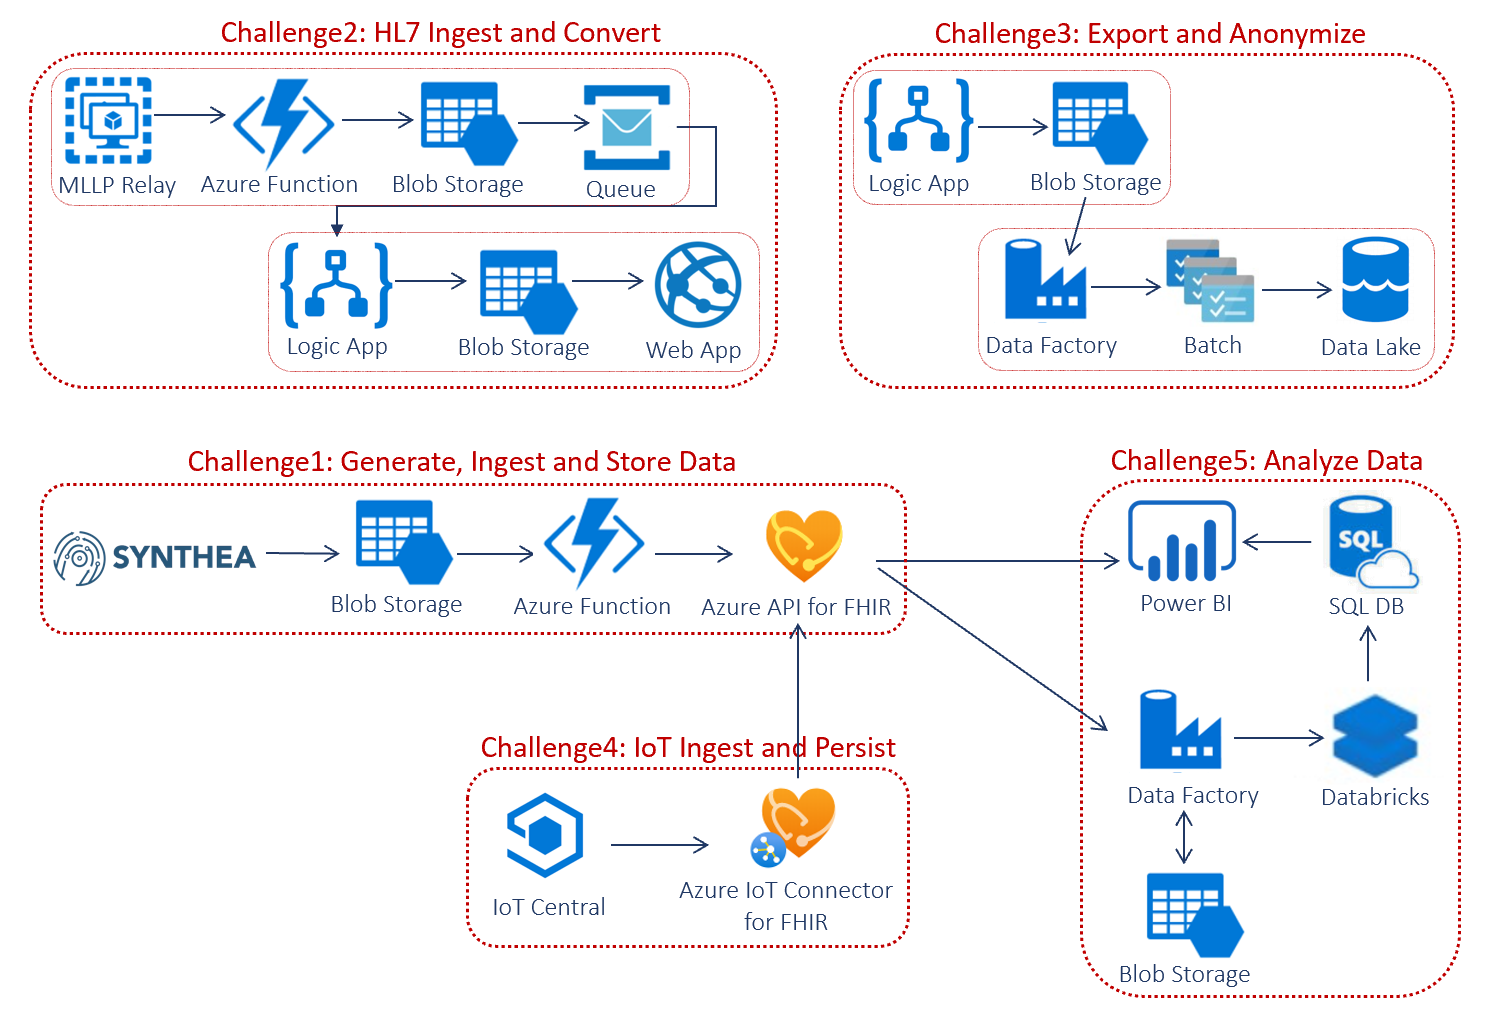
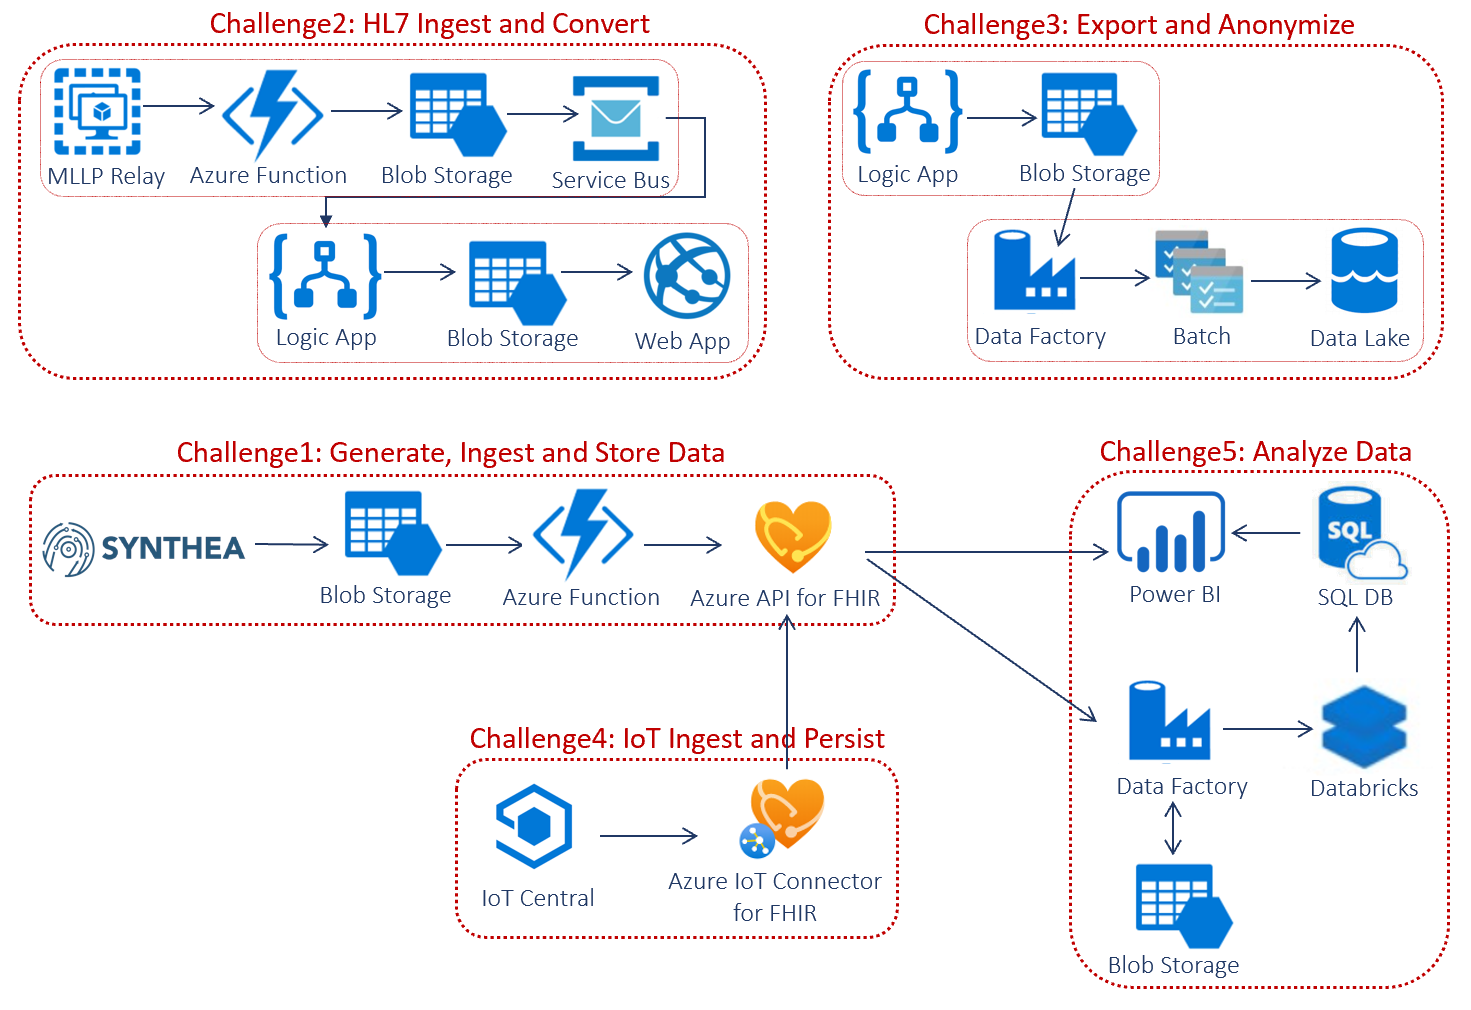
2nd version

diff --git a/Challenge0-Prerequistes/ReadMe.md b/Challenge0-Prerequistes/ReadMe.md
@@ -2,39 +2,39 @@
 
 #### This chapter lists the technical and knowledge pre-requisites to complete all challenges.
 
-## Knowledge prerequisites
+# Knowledge prerequisites
 * [HL7 FHIR](https://hl7.org/fhir/) FHIR is a standard for health care data exchange, published by HL7®.
 * [Azure API for FHIR](https://azure.microsoft.com/en-us/services/azure-api-for-fhir/)
 * [Azure API for FHIR Documentation](https://docs.microsoft.com/en-us/azure/healthcare-apis/) is a managed, standards-based, compliant API for clinical health data that enables solutions for actionable analytics and machine learning.
 * [Synthea](https://github.com/synthetichealth/synthea) is an open-source synthetic patient and associated health records generator that simulates the medical history of synthetic patients. Synthea generates HL7 FHIR records using the HAPI FHIR library to generate a FHIR Bundle
-* Azure Blob Storage
-* Azure Data Lake Store Gen2
-* Azure Function
-* Azure Ordered Queue
-* Azure Logic App
-* Azure Web App
-* Azure Batch
-* Azure Data Factory
-* Azure Databricks
-* Azure SQL Database
-* Power Query
-* PowerBI
-* IoT Central
-* MLLP Relay
+* [Azure Blob Storage](https://docs.microsoft.com/en-us/azure/storage/blobs/storage-blobs-introduction)
+* [Azure Data Lake Store Gen2](https://docs.microsoft.com/en-us/azure/storage/blobs/data-lake-storage-introduction)
+* [Azure Function](https://docs.microsoft.com/en-us/azure/azure-functions/)
+* [Azure Service Bus](https://docs.microsoft.com/en-us/azure/service-bus-messaging/service-bus-messaging-overview)
+* [Azure Logic Apps](https://docs.microsoft.com/en-us/azure/logic-apps/)
+* [Azure Web App](https://docs.microsoft.com/en-us/azure/app-service/)
+* [Azure Batch](https://docs.microsoft.com/en-us/azure/batch/)
+* [Azure Data Factory](https://docs.microsoft.com/en-us/azure/data-factory/introduction)
+* [Azure Databricks](https://docs.microsoft.com/en-us/azure/databricks/scenarios/what-is-azure-databricks)
+* [Azure SQL Database](https://docs.microsoft.com/en-us/azure/azure-sql/)
+* [Power Query](https://docs.microsoft.com/en-us/power-query/power-query-what-is-power-query)
+* [PowerBI](https://docs.microsoft.com/en-us/power-bi/fundamentals/power-bi-overview)
+* [IoT Central](https://docs.microsoft.com/en-us/azure/iot-central/healthcare/concept-continuous-patient-monitoring-architecture)
+* [MLLP Relay](https://hapifhir.github.io/hapi-hl7v2/hapi-hl7overhttp/specification.html)
 
-## Technical prerequisites
+# Technical prerequisites
 * [Azure Subscription](https://azure.microsoft.com/en-us/free/)
-* Azure Powershell
-* Azure CLI
-* Postman
-* Azure Active Directory
+* [Azure Active Directory](https://docs.microsoft.com/en-us/azure/active-directory/)
+* [Azure Powershell](https://docs.microsoft.com/en-us/powershell/azure/install-az-ps?view=azps-4.5.0)
+* [Azure CLI](https://docs.microsoft.com/en-us/cli/azure/install-azure-cli-windows?view=azure-cli-latest&tabs=azure-cli)
+* [Postman](https://www.postman.com/downloads/)
 * Java 1.8 (JDK, not JRE install)
 
 
-## References
+# References
 * [Microsoft Cloud for Healthcare](https://www.microsoft.com/en-us/industry/health/microsoft-cloud-for-healthcare)
 * [Microsoft Health Architecture GitHub](https://github.com/microsoft/health-architectures)
 
 ***
 
-[Go to Challenge 1 - Azure API for FHIR: Generate, Ingest and Store synthetic data into Azure API for FHIR](./Challenge1-AzureAPIforFHIR/ReadMe.md)
+[Go to Challenge 1 - Azure API for FHIR: Generate, Ingest and Store synthetic data into Azure API for FHIR](../Challenge1-AzureAPIforFHIR/ReadMe.md)

diff --git a/Challenge1-AzureAPIforFHIR/ReadMe.md b/Challenge1-AzureAPIforFHIR/ReadMe.md
@@ -4,29 +4,32 @@
 
 Check out the [Challenge 0 - Pre-requisites: Technical and knowledge requirements for completing the Challenges](./Challenge0-Prerequistes/ReadMe.md).
 
-## Scenario
+# Scenario
 Coming Soon...
 
-###Generate Data using Synthea
+#Synthea
 This section shows how to setup and generate health records with Synthea.
 Synthea is an open-source synthetic patient and associated health records generator that simulates the medical history of synthetic patients. Synthea generates HL7 FHIR records using the HAPI FHIR library to generate a FHIR Bundle for these FHIR Resources. More on Synthea [here](https://github.com/synthetichealth/synthea).
 
 By default, Synthea contains publicly available demographic data obtained from the US Census Bureau. The data was post-processed to create population input data for every place (town and city) in the United States. This post-processed data can be used with Synthea to generate representative populations. (County + SubCounty + Education + Income). See https://github.com/synthetichealth/synthea/wiki/Default-Demographic-Data for details.
 
-## Setup Synthea
+## Setup
 *
 
-###Setup and Configure Azure API for FHIR
+##Generate Data
+
+#Azure API for FHIR
+##Setup and Configure 
 [Azure API for FHIR](https://docs.microsoft.com/en-us/azure/healthcare-apis/) is a managed, standards-based, compliant API for clinical health data that enables solutions for actionable analytics and machine learning.
 *
 
-###Ingest Data using Azure Function and Store in Azure API for FHIR
+#Ingest Data 
 *
 
-###Test data loaded in Azure API for FHIR using Postman
+#Test data loaded in Azure API for FHIR using Postman
 * 
 
 
 ***
 
-[Go to Challenge 2 - HL7 Ingest and Convert: Ingest HL7v2 messages and convert to FHIR format](./Challenge2-HL7IngestandConvert/ReadMe.md)
+[Go to Challenge 2 - HL7 Ingest and Convert: Ingest HL7v2 messages and convert to FHIR format](../Challenge2-HL7IngestandConvert/ReadMe.md)

diff --git a/Challenge2-HL7IngestandConvert/ReadMe.md b/Challenge2-HL7IngestandConvert/ReadMe.md
@@ -4,23 +4,21 @@
 
 Check out the [Challenge 0 - Pre-requisites: Technical and knowledge requirements for completing the Challenges](./Challenge0-Prerequistes/ReadMe.md).
 
-## Scenario
+# Scenario
 Coming Soon...
 
-###HL7 Ingest
+#HL7 Ingest
 This section shows 
 *
 
-###HL7 Conversion to FHIR
+#HL7 Conversion to FHIR
 This section shows 
 *
 
-
-
-###Test data loaded in Azure API for FHIR using Postman
+#Test data loaded in Azure API for FHIR using Postman
 * 
 
 
 ***
 
-[Go to Challenge 3 - Export and Anonymize: Bulk export data from Azure API for FHIR and deidentify the data](./Challenge3-ExportandAnonymizeData/ReadMe.md)
+[Go to Challenge 3 - Export and Anonymize: Bulk export data from Azure API for FHIR and deidentify the data](../Challenge3-ExportandAnonymizeData/ReadMe.md)

diff --git a/Challenge3-ExportandAnonymizeData/ReadMe.md b/Challenge3-ExportandAnonymizeData/ReadMe.md
@@ -4,23 +4,21 @@
 
 Check out the [Challenge 0 - Pre-requisites: Technical and knowledge requirements for completing the Challenges](./Challenge0-Prerequistes/ReadMe.md).
 
-## Scenario
+# Scenario
 Coming Soon...
 
-###Bulk Export
+#Bulk Export
 This section shows 
 *
 
-###Anonymization
+#Anonymization
 This section shows 
 *
 
-
-
-###Test data loaded in Azure API for FHIR using Postman
+#Test data loaded in Azure API for FHIR using Postman
 * 
 
 
 ***
 
-[Go to Challenge 4 - IoT Connector for FHIR: Ingest and Persist device data from IoT Central](./Challenge4-IoTFHIRConnector/ReadMe.md)
+[Go to Challenge 4 - IoT Connector for FHIR: Ingest and Persist device data from IoT Central](../Challenge4-IoTFHIRConnector/ReadMe.md)

diff --git a/Challenge4-IoTFHIRConnector/ReadMe.md b/Challenge4-IoTFHIRConnector/ReadMe.md
@@ -4,18 +4,17 @@
 
 Check out the [Challenge 0 - Pre-requisites: Technical and knowledge requirements for completing the Challenges](./Challenge0-Prerequistes/ReadMe.md).
 
-## Scenario
+# Scenario
 Coming Soon...
 
-###Setup IoT Converter
+#Setup IoT Converter
 This section shows 
 *
 
-
-###Test data loaded in Azure API for FHIR using Postman
+#Test data loaded in Azure API for FHIR using Postman
 * 
 
 
 ***
 
-[Go to Challenge 5 - Analytics using FHIR Data: Analytics using Azure Data Factory, Databricks and PowerBI](./Challenge5-AzureDataAnalytics/ReadMe.md)
+[Go to Challenge 5 - Analytics using FHIR Data: Analytics using Azure Data Factory, Databricks and PowerBI](../Challenge5-AzureDataAnalytics/ReadMe.md)

diff --git a/Challenge5-AzureDataAnalytics/ReadMe.md b/Challenge5-AzureDataAnalytics/ReadMe.md
@@ -4,18 +4,18 @@
 
 Check out the [Challenge 0 - Pre-requisites: Technical and knowledge requirements for completing the Challenges](./Challenge0-Prerequistes/ReadMe.md).
 
-## Scenario
+# Scenario
 Coming Soon...
 
-###Export FHIR data to ndjson using Azure Data Factory
+#Export FHIR data to ndjson using Azure Data Factory
 This section shows 
 *
 
-###Process and Load into Azure SQL Database using Azure Databricks
+#Process and Load into Azure SQL Database using Azure Databricks
 This section shows 
 *
 
-###Visualize in PowerBI using Power Query FHIR Converter
+#Visualize in PowerBI using Power Query FHIR Converter
 This section shows 
 *
 

diff --git a/README.md b/README.md
@@ -51,4 +51,4 @@ or trademarks, whether by implication, estoppel or otherwise.
 
 ***
 
-[Go To Challenge 0 - Pre-requisites: Technical and knowledge requirements for completing the Challenges](./Challenge0-Prerequistes/ReadMe.md)
+[Go To Challenge 0 - Pre-requisites: Technical and knowledge requirements for completing the Challenges](../Challenge0-Prerequistes/ReadMe.md)
